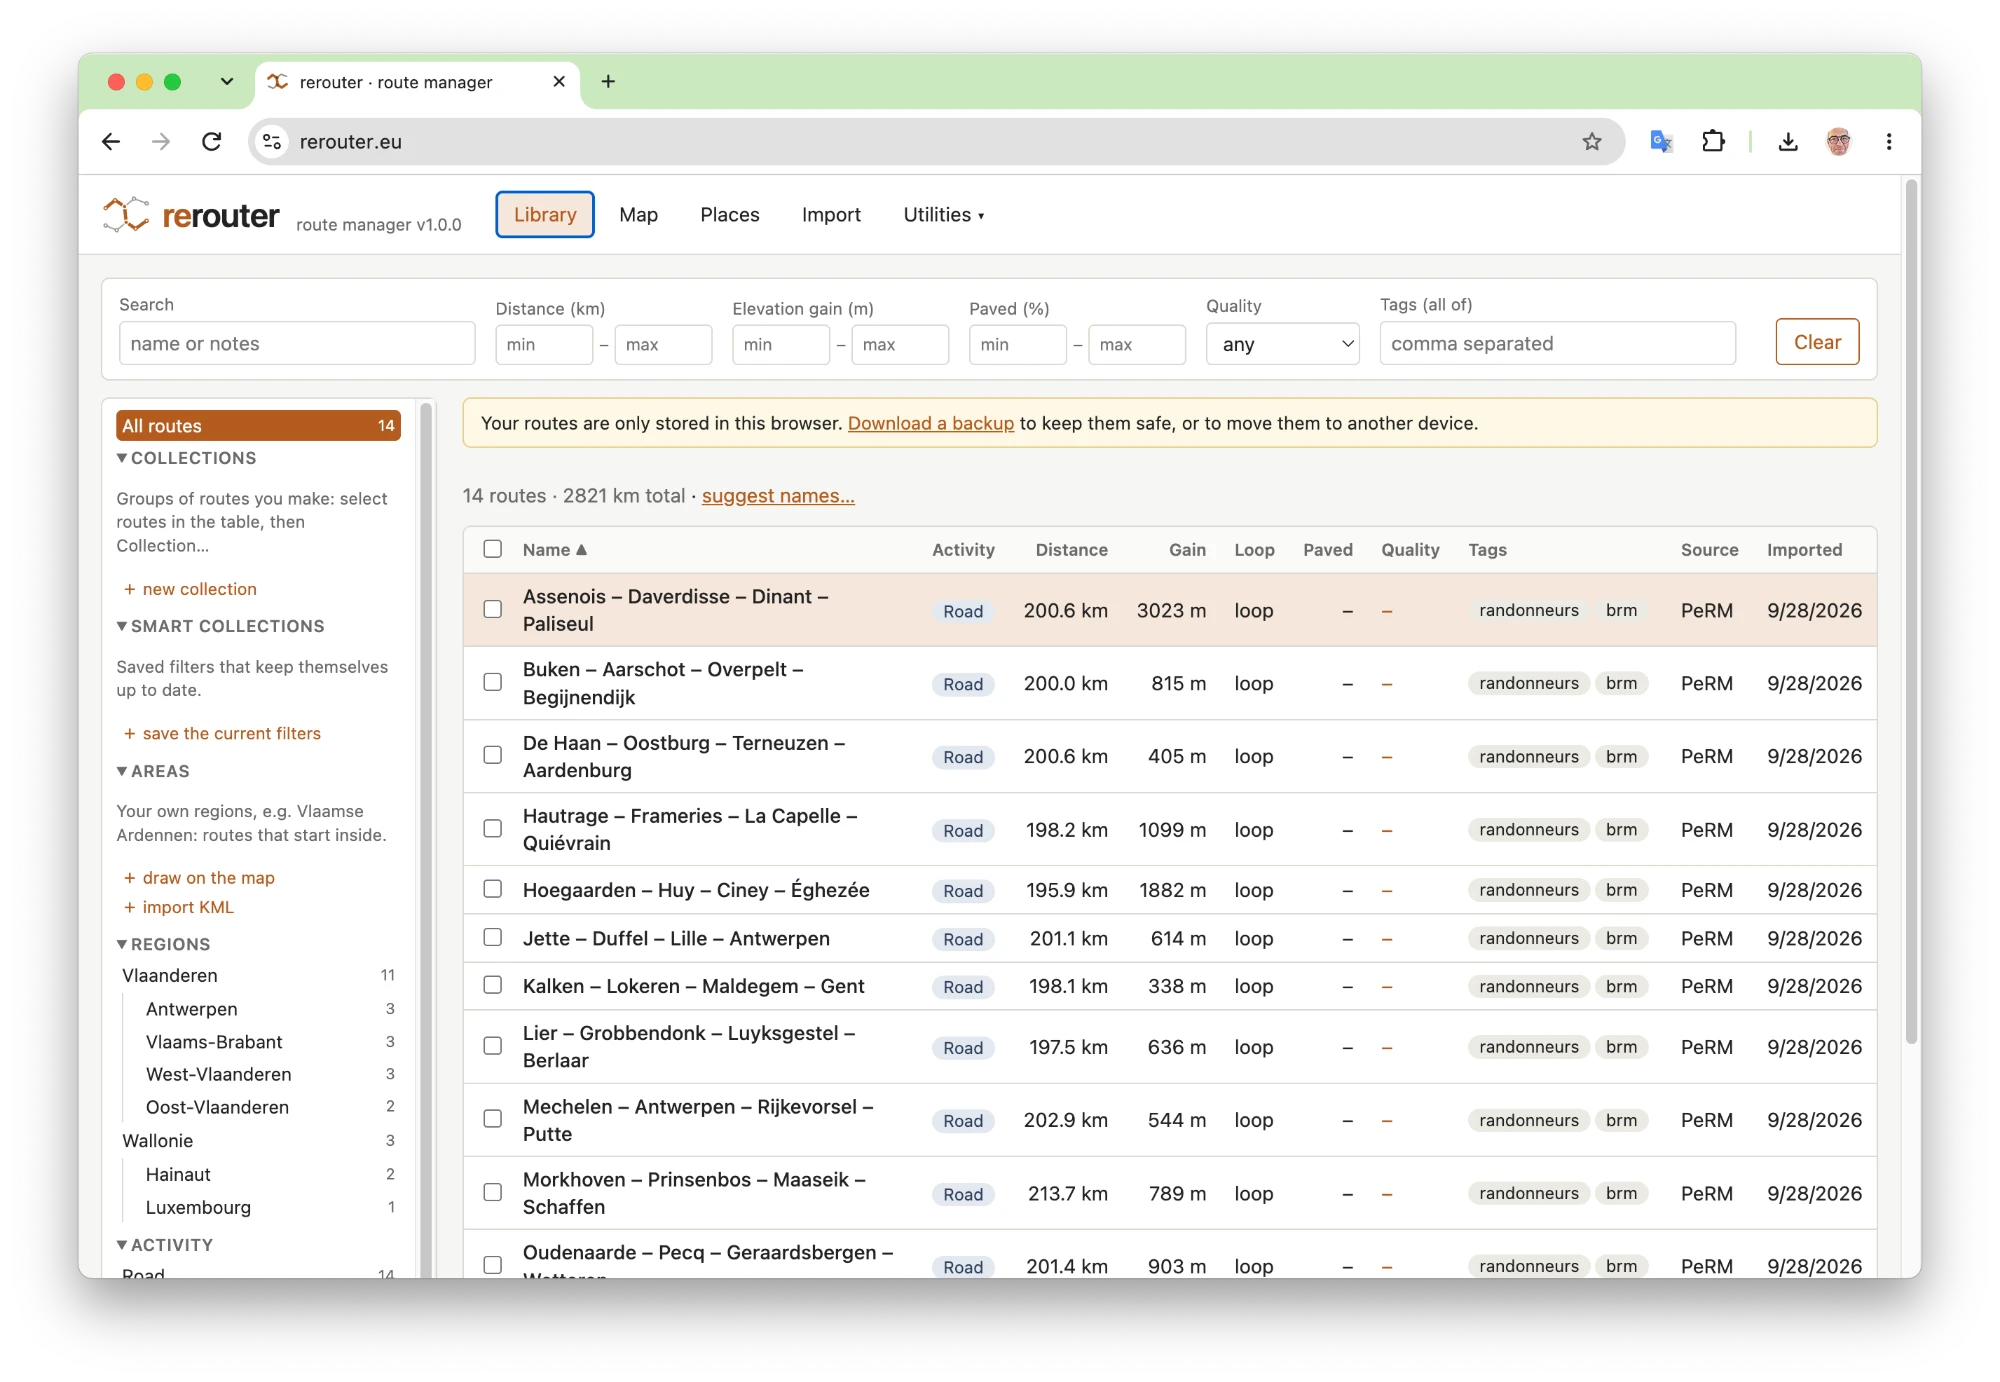
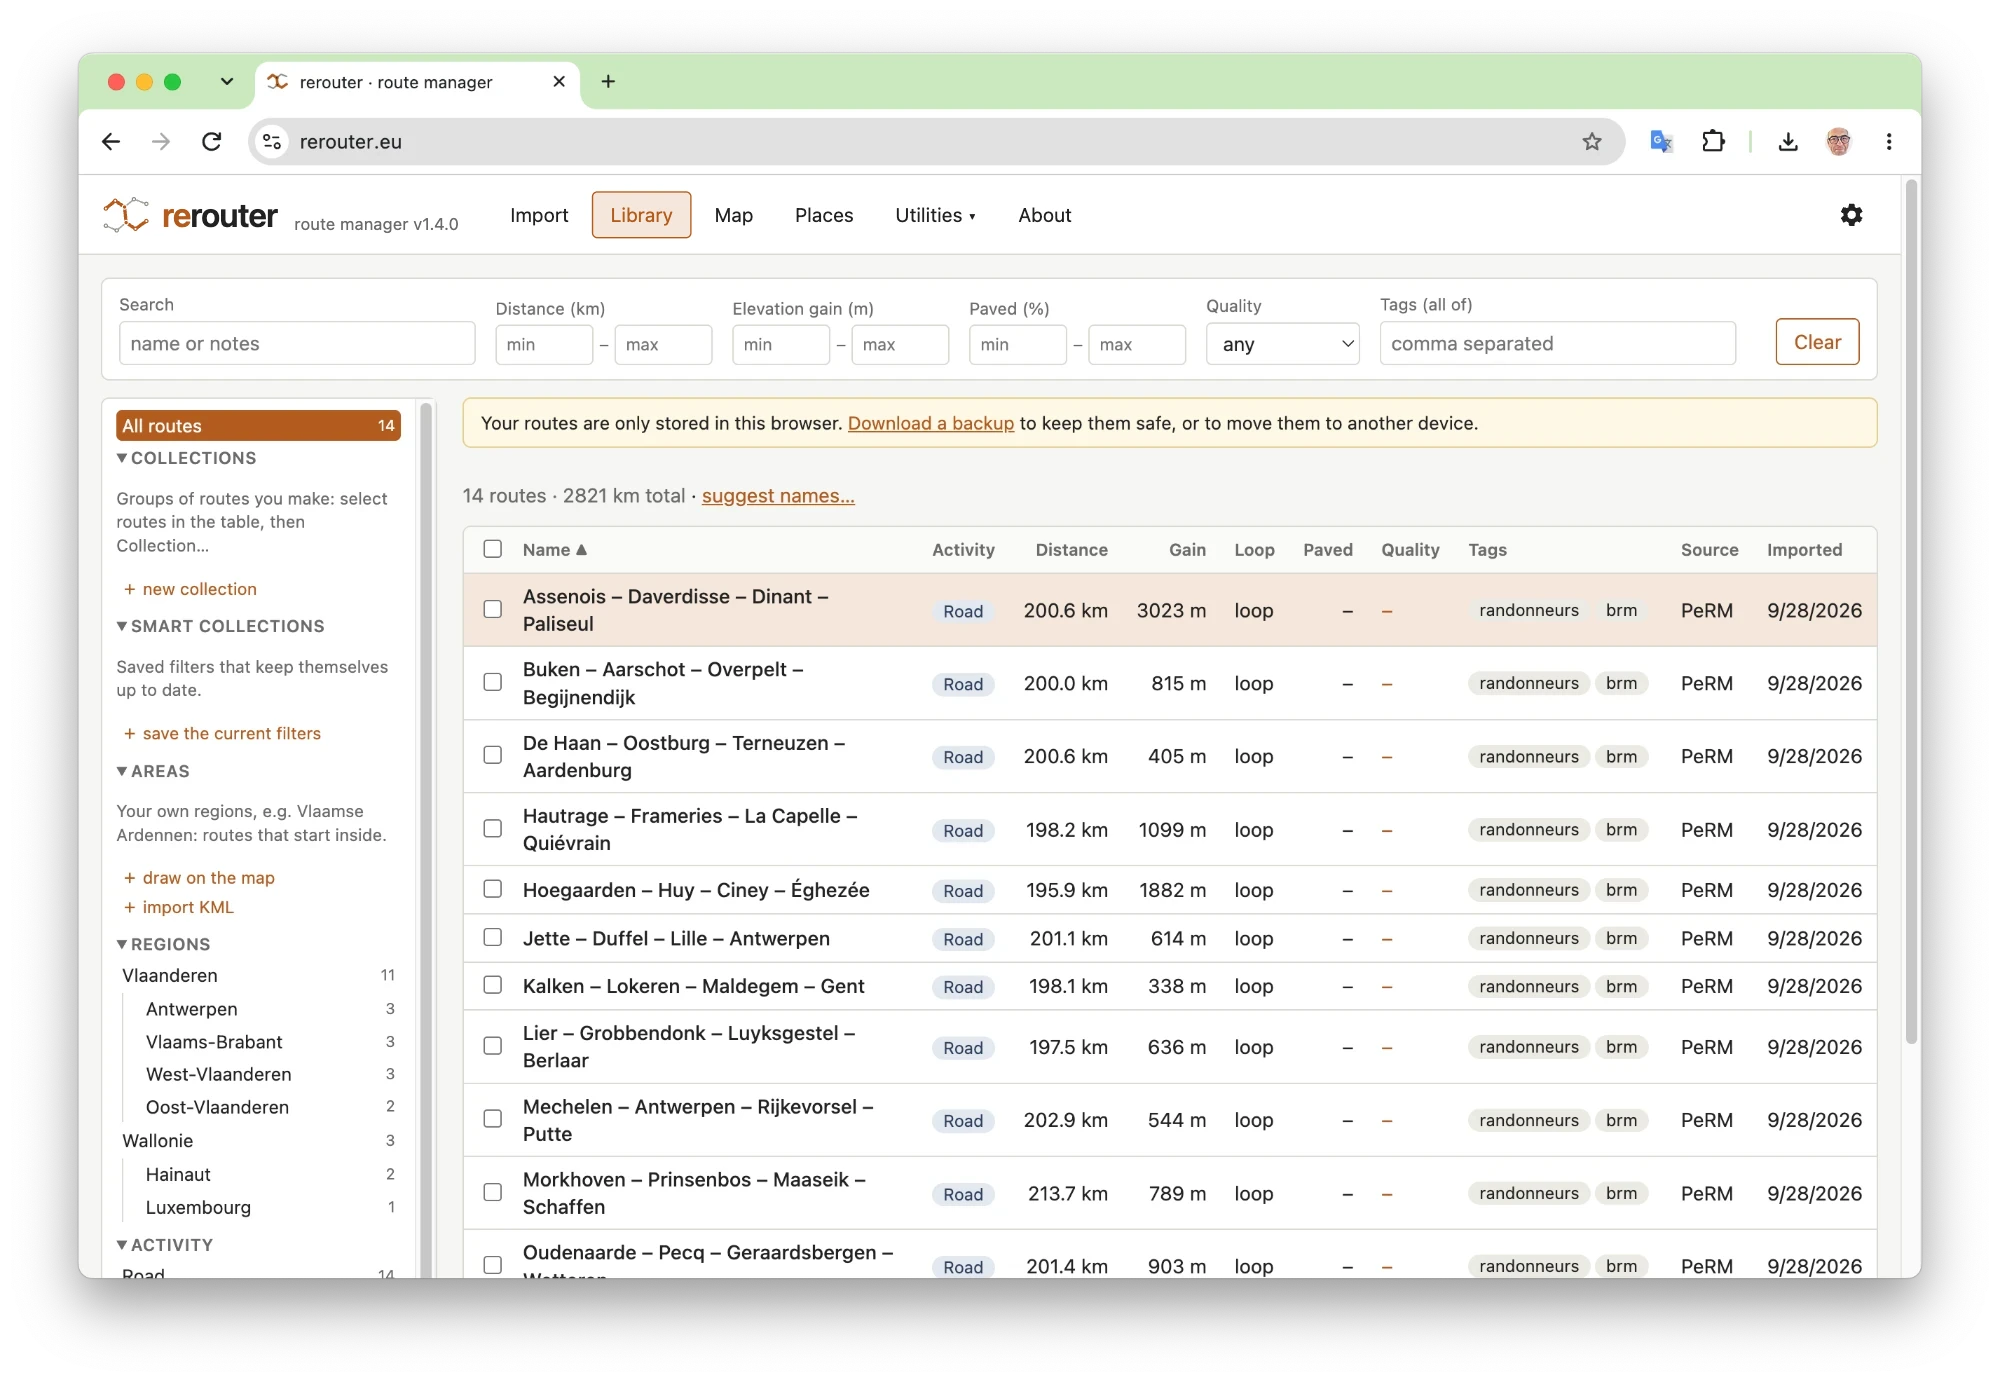
README screenshots: the 1.4 menu bar (Import … About, ⚙)
The hand-taken screenshots keep their content; only the menu bar is replaced by the current
header, rendered at the same scale with the same tab active.

Changed region(s): [[0.248, 0.1245, 0.372, 0.1867], [0.093, 0.1556, 0.217, 0.1867]]

diff --git a/README.md b/README.md
@@ -639,7 +639,8 @@ The pytest run includes a check that backups made by the page restore on the ser
 other way round (it needs Node; skipped without it).
 
 The screenshots in this README (`docs/screenshots/*.webp`) are taken by hand of the public site,
-rerouter.eu. `docs/screenshots/take_screenshots.py` (Playwright, driving your installed Chrome)
+rerouter.eu. Their menu bars were redrawn for the 1.4 menu (Import, Library, Map, Places,
+Utilities, About, ⚙) by pasting in the current header, rendered at the same scale. `docs/screenshots/take_screenshots.py` (Playwright, driving your installed Chrome)
 made the earlier automated ones: it drives the page served by two scratch rerouter servers and
 can fill their libraries itself, by importing GPX files through the Import screen (`--seed`) or
 by restoring backups (`--restore`); its docstring explains the setup. It's a docs helper, not
